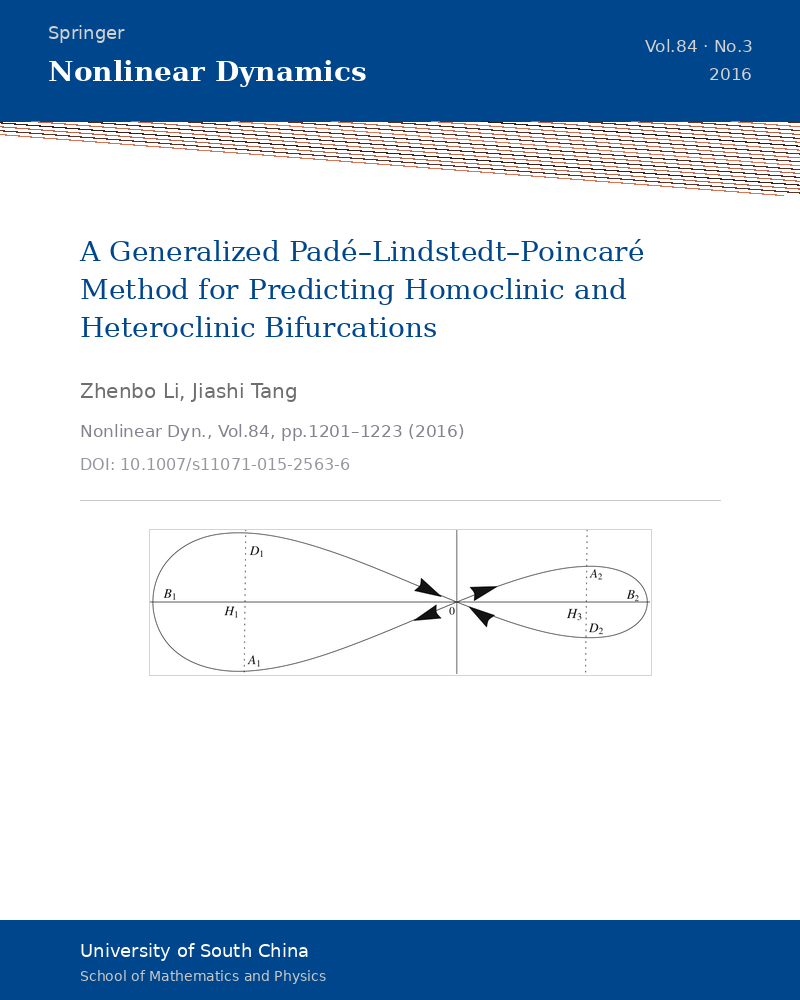
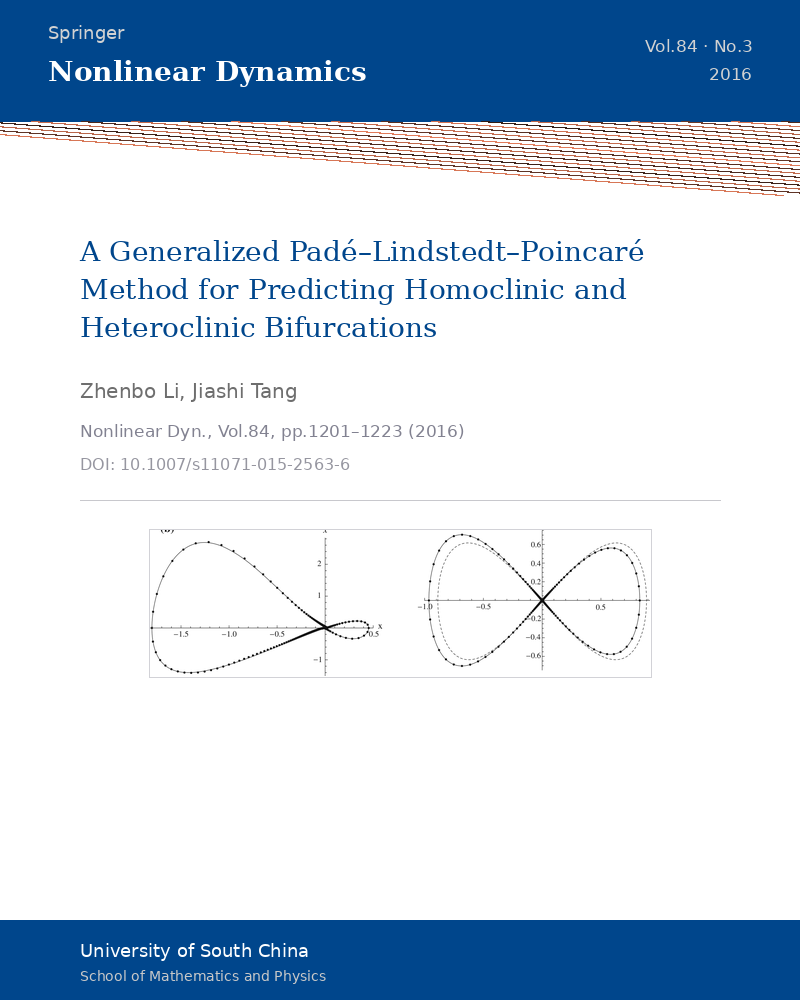
P10封面改为精华汇总图2（同宿轨图）

diff --git a/gen_p10p11_cover.py b/gen_p10p11_cover.py
@@ -17,7 +17,7 @@ make("nody-cover.png",
     (0, 70, 140),
     lambda s: (s, int(s*0.55), int(s*0.4)),
     555,
-    f"{ESS}/essential-summary-p10/p10-fig1.png")
+    f"{ESS}/essential-summary-p10/p10-fig2.png")
 
 # P11
 make("jvet-cover.png",
